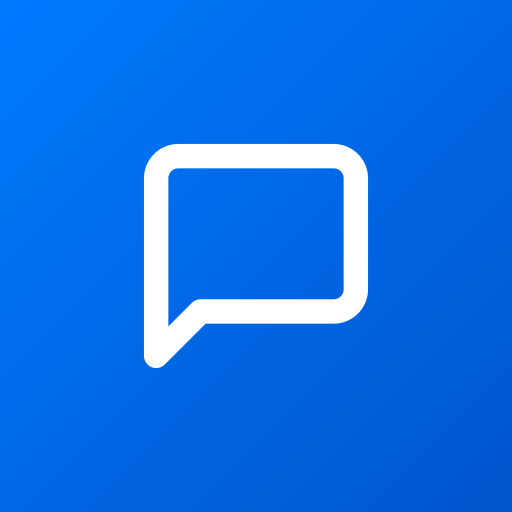
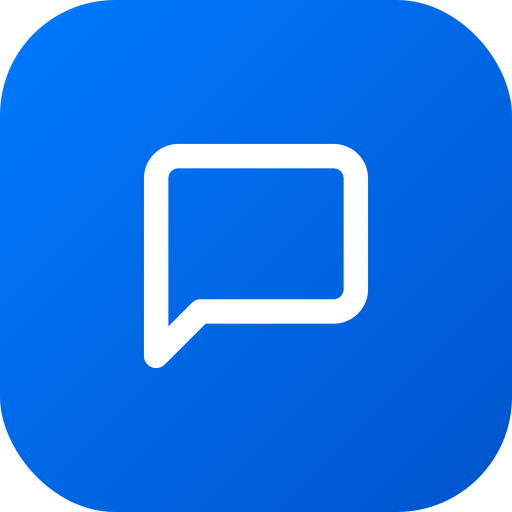
Icônes PWA : bords arrondis pour l'affichage direct (Chrome bureau, raccourcis) et versions maskable pleine surface distinctes pour les lanceurs Android. L'icône Apple reste volontairement carrée, iOS appliquant lui-même son masque arrondi. Cache v60

diff --git a/dist/index.html b/dist/index.html
@@ -209,14 +209,14 @@
   <!-- BUNDLE PRINCIPAL (PWA Vanilla JS) — anciennement un seul fichier app.js,
        désormais découpé en modules thématiques (même code, chargés dans l'ordre
        d'origine, aucun changement de comportement) pour faciliter la maintenance. -->
-  <script src="js/01-core.js?v=59"></script>
-  <script src="js/02-media.js?v=59"></script>
-  <script src="js/03-render-engine.js?v=59"></script>
-  <script src="js/04-render-auth-cropper.js?v=59"></script>
-  <script src="js/05-render-feed.js?v=59"></script>
-  <script src="js/06-render-panels.js?v=59"></script>
-  <script src="js/07-app-controller.js?v=59"></script>
-  <script src="js/08-bootstrap.js?v=59"></script>
+  <script src="js/01-core.js?v=60"></script>
+  <script src="js/02-media.js?v=60"></script>
+  <script src="js/03-render-engine.js?v=60"></script>
+  <script src="js/04-render-auth-cropper.js?v=60"></script>
+  <script src="js/05-render-feed.js?v=60"></script>
+  <script src="js/06-render-panels.js?v=60"></script>
+  <script src="js/07-app-controller.js?v=60"></script>
+  <script src="js/08-bootstrap.js?v=60"></script>
 
   <!-- DÉBLOCAGE ANTI-SPINNER (Garantie de déblocage 0ms / 400ms max) -->
   <script>

diff --git a/index.html b/index.html
@@ -209,14 +209,14 @@
   <!-- BUNDLE PRINCIPAL (PWA Vanilla JS) — anciennement un seul fichier app.js,
        désormais découpé en modules thématiques (même code, chargés dans l'ordre
        d'origine, aucun changement de comportement) pour faciliter la maintenance. -->
-  <script src="js/01-core.js?v=59"></script>
-  <script src="js/02-media.js?v=59"></script>
-  <script src="js/03-render-engine.js?v=59"></script>
-  <script src="js/04-render-auth-cropper.js?v=59"></script>
-  <script src="js/05-render-feed.js?v=59"></script>
-  <script src="js/06-render-panels.js?v=59"></script>
-  <script src="js/07-app-controller.js?v=59"></script>
-  <script src="js/08-bootstrap.js?v=59"></script>
+  <script src="js/01-core.js?v=60"></script>
+  <script src="js/02-media.js?v=60"></script>
+  <script src="js/03-render-engine.js?v=60"></script>
+  <script src="js/04-render-auth-cropper.js?v=60"></script>
+  <script src="js/05-render-feed.js?v=60"></script>
+  <script src="js/06-render-panels.js?v=60"></script>
+  <script src="js/07-app-controller.js?v=60"></script>
+  <script src="js/08-bootstrap.js?v=60"></script>
 
   <!-- DÉBLOCAGE ANTI-SPINNER (Garantie de déblocage 0ms / 400ms max) -->
   <script>

diff --git a/public/index.html b/public/index.html
@@ -209,14 +209,14 @@
   <!-- BUNDLE PRINCIPAL (PWA Vanilla JS) — anciennement un seul fichier app.js,
        désormais découpé en modules thématiques (même code, chargés dans l'ordre
        d'origine, aucun changement de comportement) pour faciliter la maintenance. -->
-  <script src="js/01-core.js?v=59"></script>
-  <script src="js/02-media.js?v=59"></script>
-  <script src="js/03-render-engine.js?v=59"></script>
-  <script src="js/04-render-auth-cropper.js?v=59"></script>
-  <script src="js/05-render-feed.js?v=59"></script>
-  <script src="js/06-render-panels.js?v=59"></script>
-  <script src="js/07-app-controller.js?v=59"></script>
-  <script src="js/08-bootstrap.js?v=59"></script>
+  <script src="js/01-core.js?v=60"></script>
+  <script src="js/02-media.js?v=60"></script>
+  <script src="js/03-render-engine.js?v=60"></script>
+  <script src="js/04-render-auth-cropper.js?v=60"></script>
+  <script src="js/05-render-feed.js?v=60"></script>
+  <script src="js/06-render-panels.js?v=60"></script>
+  <script src="js/07-app-controller.js?v=60"></script>
+  <script src="js/08-bootstrap.js?v=60"></script>
 
   <!-- DÉBLOCAGE ANTI-SPINNER (Garantie de déblocage 0ms / 400ms max) -->
   <script>

diff --git a/dist/sw.js b/dist/sw.js
@@ -1,11 +1,11 @@
 // ============================================================
-// SERVICE WORKER — Kun COM VH PWA (v59)
+// SERVICE WORKER — Kun COM VH PWA (v60)
 // Stratégie : Network-First pour JS/HTML (Garantie de mise à jour instantanée)
 // app.js a été découpé en modules (voir dossier js/) pour la maintenabilité —
 // même stratégie de cache, juste plus de fichiers listés ci-dessous.
 // ============================================================
 
-const CACHE_NAME = 'kun-com-pwa-v59';
+const CACHE_NAME = 'kun-com-pwa-v60';
 const STATIC_ASSETS = [
   './',
   './index.html',
@@ -20,6 +20,8 @@ const STATIC_ASSETS = [
   './manifest.json',
   './icons/icon-192.png',
   './icons/icon-512.png',
+  './icons/icon-192-maskable.png',
+  './icons/icon-512-maskable.png',
   './icons/apple-touch-icon-180.png'
 ];
 

diff --git a/public/sw.js b/public/sw.js
@@ -1,11 +1,11 @@
 // ============================================================
-// SERVICE WORKER — Kun COM VH PWA (v59)
+// SERVICE WORKER — Kun COM VH PWA (v60)
 // Stratégie : Network-First pour JS/HTML (Garantie de mise à jour instantanée)
 // app.js a été découpé en modules (voir dossier js/) pour la maintenabilité —
 // même stratégie de cache, juste plus de fichiers listés ci-dessous.
 // ============================================================
 
-const CACHE_NAME = 'kun-com-pwa-v59';
+const CACHE_NAME = 'kun-com-pwa-v60';
 const STATIC_ASSETS = [
   './',
   './index.html',
@@ -20,6 +20,8 @@ const STATIC_ASSETS = [
   './manifest.json',
   './icons/icon-192.png',
   './icons/icon-512.png',
+  './icons/icon-192-maskable.png',
+  './icons/icon-512-maskable.png',
   './icons/apple-touch-icon-180.png'
 ];
 

diff --git a/sw.js b/sw.js
@@ -1,11 +1,11 @@
 // ============================================================
-// SERVICE WORKER — Kun COM VH PWA (v59)
+// SERVICE WORKER — Kun COM VH PWA (v60)
 // Stratégie : Network-First pour JS/HTML (Garantie de mise à jour instantanée)
 // app.js a été découpé en modules (voir dossier js/) pour la maintenabilité —
 // même stratégie de cache, juste plus de fichiers listés ci-dessous.
 // ============================================================
 
-const CACHE_NAME = 'kun-com-pwa-v59';
+const CACHE_NAME = 'kun-com-pwa-v60';
 const STATIC_ASSETS = [
   './',
   './index.html',
@@ -20,6 +20,8 @@ const STATIC_ASSETS = [
   './manifest.json',
   './icons/icon-192.png',
   './icons/icon-512.png',
+  './icons/icon-192-maskable.png',
+  './icons/icon-512-maskable.png',
   './icons/apple-touch-icon-180.png'
 ];
 
